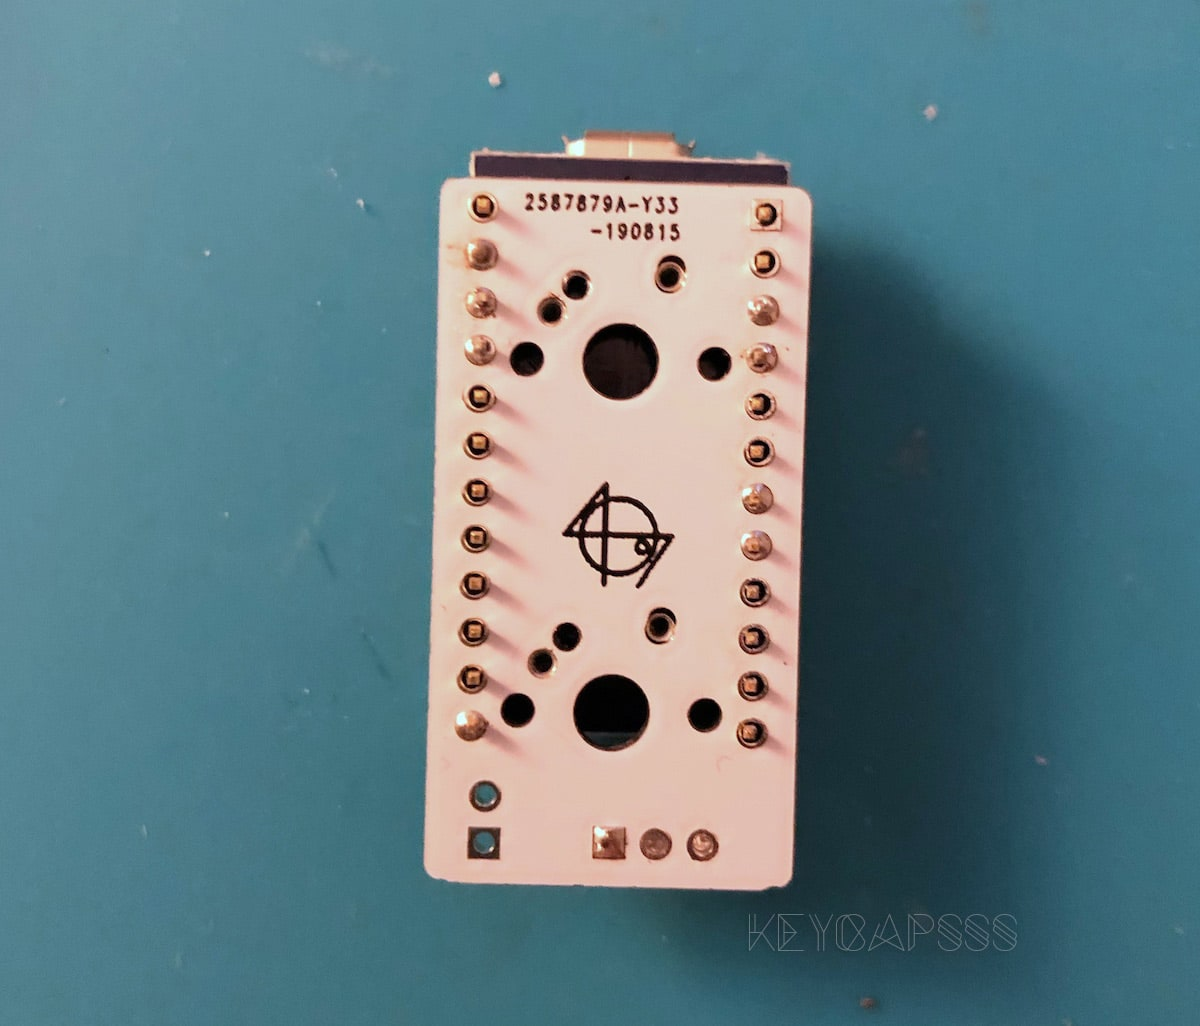
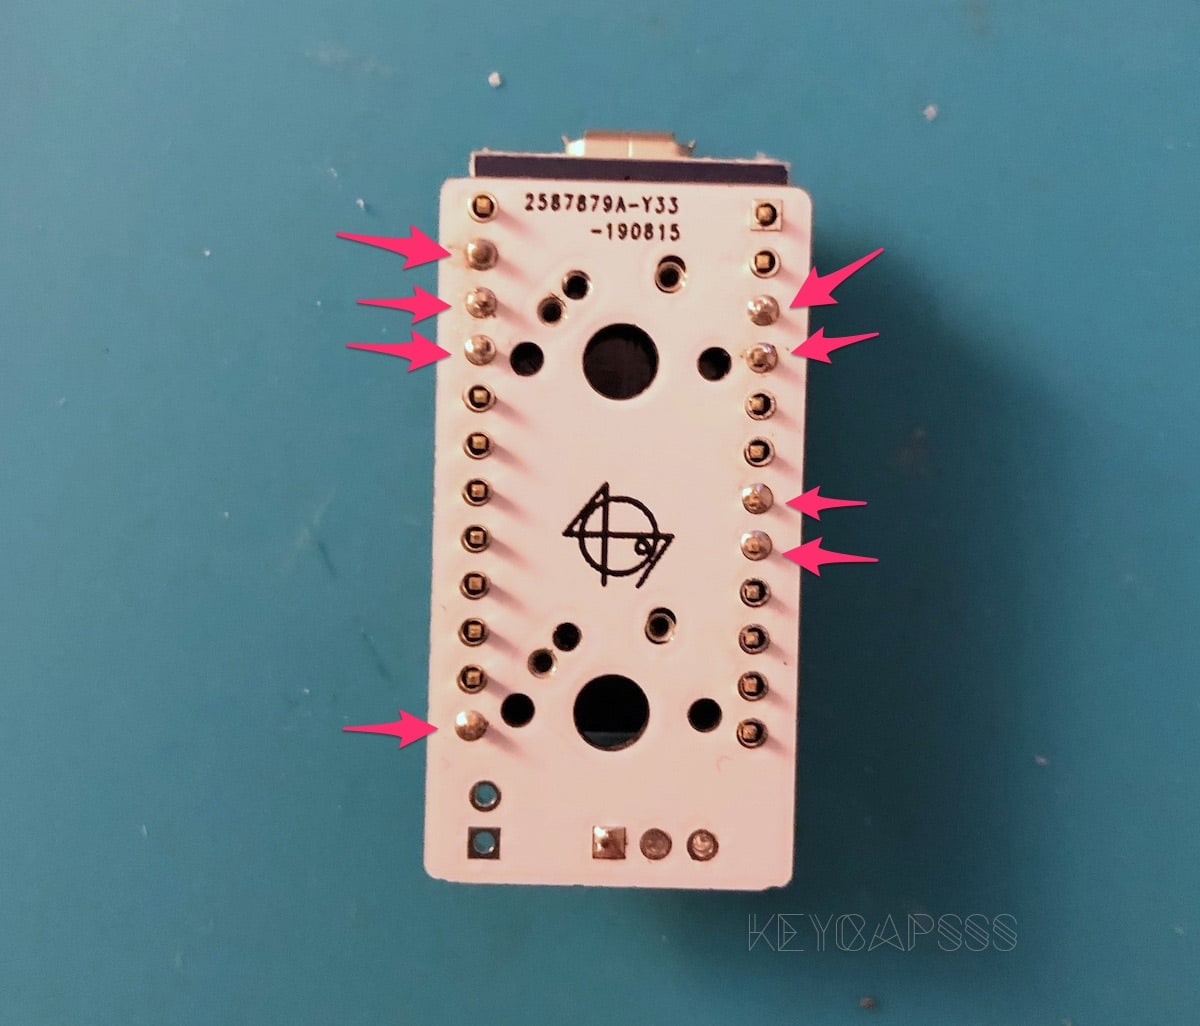
update step 3
- marked which pins are used by the pcb

diff --git a/README.md b/README.md
@@ -11,9 +11,15 @@
 <img src="img/milk-2-build-guide-2.jpg" width=500>
 <img src="img/milk-2-build-guide-3.jpg" width=500>
 
-### 3: Solder the header pins for the Pro Micro 
+### 3: Solder the header pins for the Pro Micro
+It's not necessary to solder all pins.  
+The marked pins are used by the milk pcb.
+
 <img src="img/milk-2-build-guide-4.jpg" width=500>
 <img src="img/milk-2-build-guide-5.jpg" width=500>
+
+Pcb bottom view.
+<img src="img/milk-2-build-guide-7.png" width=500>
 
 ### 4: Install the switches to the 3d printed case
 <img src="img/milk-2-build-guide-6.jpg" width=500>
